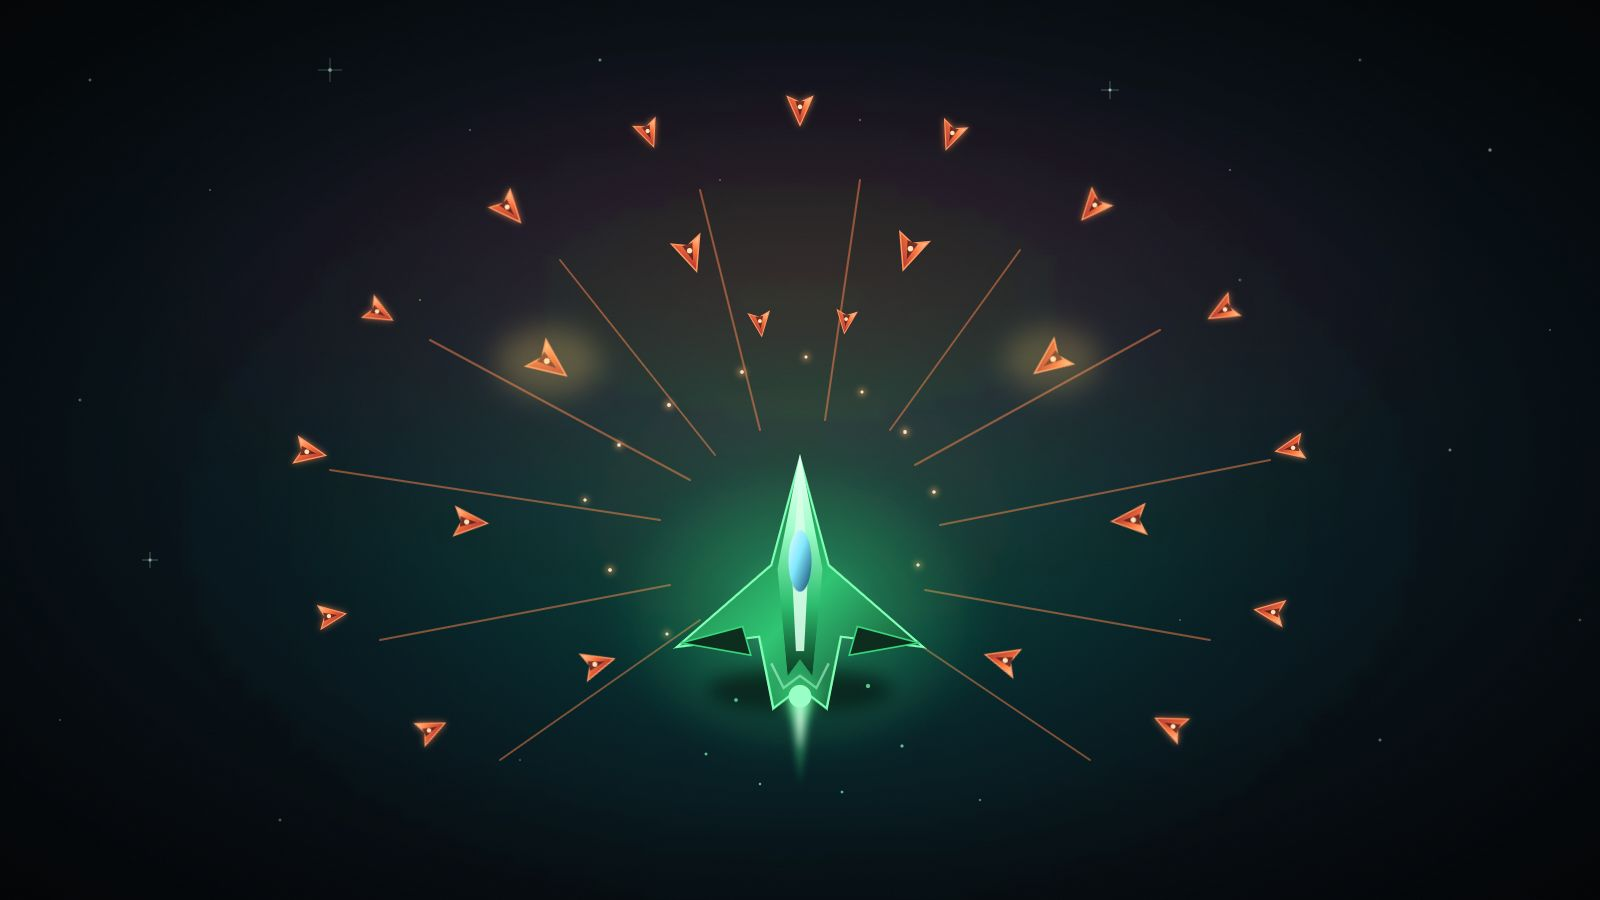
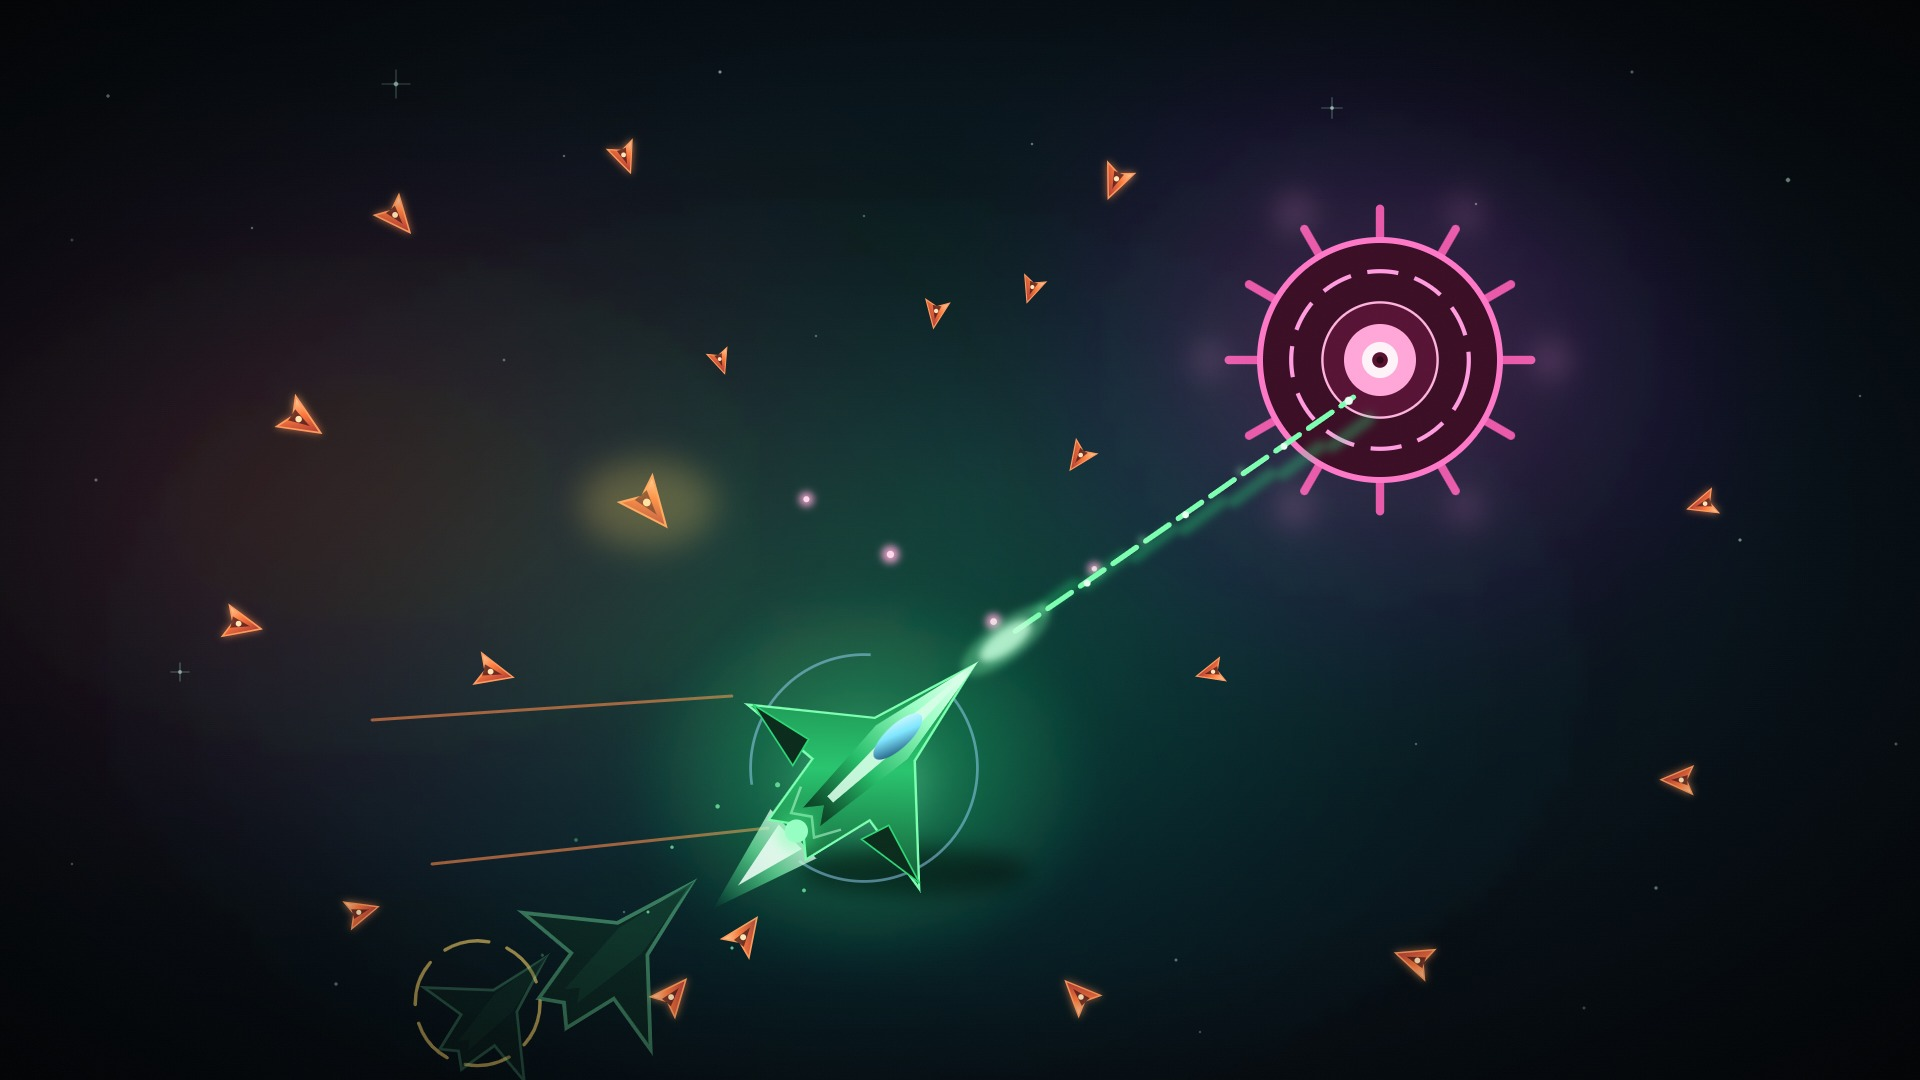
Release 1.2 assets: new hero art, phone wallpaper, 7 final screenshots (gameplay, overdrive, resonate, boss dossiers), rewritten README with story section, boss dossier strip, wallpaper downloads

diff --git a/README.md b/README.md
@@ -1,36 +1,91 @@
 <p align="center">
-  <img src="assets/art/hero.jpg" alt="A lone green starfighter facing a neon swarm" width="100%">
+  <a href="https://swarm-crews.vercel.app">
+    <img src="assets/art/hero.jpg" alt="Swarm Crews key art: the last starfighter firing a forward stream into the Hive boss" width="100%">
+  </a>
 </p>
 
 <h1 align="center">SWARM CREWS</h1>
 
-<p align="center"><b>The swarm ate the colonies. You fly the last ship.</b></p>
-
 <p align="center">
-  <a href="https://swarm-crews.vercel.app"><img alt="Play Swarm Crews in your browser" src="https://img.shields.io/badge/PLAY_NOW-swarm--crews.vercel.app-4dff9b?style=for-the-badge&labelColor=05060a"></a>
-  <a href="https://github.com/tarek-dev-coder/swarm-crews/releases/latest"><img alt="Download the Android APK" src="https://img.shields.io/badge/ANDROID_APK-DOWNLOAD-4dff9b?style=for-the-badge&labelColor=05060a&logo=android&logoColor=05060a"></a>
+  <b>A one-life neon bullet-hell survival shooter.</b><br>
+  <sub>Browser and Android. Your dodge is your weapon.</sub>
 </p>
 
-<p align="center"><sub>FREE · NO ACCOUNT · NO ADS · PLAYS OFFLINE</sub></p>
-
-A neon bullet-hell survival shooter built around one idea: **your dodge is your
-weapon**. Dash through the storm, leave an echo in your wake, then detonate it
-to tear a hole in the swarm. Chain kills, fill the surge meter, and spend it on
-overdrive before the next wall closes in.
+<p align="center">
+  <a href="https://swarm-crews.vercel.app">
+    <img alt="Play Swarm Crews in your browser" src="https://img.shields.io/badge/PLAY_NOW-swarm--crews.vercel.app-4dff9b?style=for-the-badge&labelColor=05060a&logo=vercel&logoColor=4dff9b">
+  </a>
+  <a href="https://github.com/tarek-dev-coder/swarm-crews/releases/latest">
+    <img alt="Download the Android APK" src="https://img.shields.io/badge/ANDROID_APK-DOWNLOAD-4dff9b?style=for-the-badge&labelColor=05060a&logo=android&logoColor=4dff9b">
+  </a>
+</p>
 
 <p align="center">
-  <img src="assets/screenshots/gameplay.jpg" alt="The last ship duelling the Hive boss inside a ring of bullets" width="100%">
+  <a href="https://github.com/tarek-dev-coder/swarm-crews">
+    <img alt="Game repository" src="https://img.shields.io/badge/GAME_REPO-swarm--crews-7fe6ff?style=for-the-badge&labelColor=05060a&logo=github&logoColor=7fe6ff">
+  </a>
+  <a href="https://github.com/tarek-dev-coder">
+    <img alt="Tarek Alliani on GitHub" src="https://img.shields.io/badge/GITHUB-tarek--dev--coder-7fe6ff?style=for-the-badge&labelColor=05060a&logo=github&logoColor=7fe6ff">
+  </a>
+</p>
+
+<p align="center"><sub>Free to play. No account, no ads, works offline.</sub></p>
+
+<p align="center">
+  <a href="#the-loop">The loop</a> |
+  <a href="#the-story">The story</a> |
+  <a href="#screenshots">Screenshots</a> |
+  <a href="#bosses">Bosses</a> |
+  <a href="#controls">Controls</a> |
+  <a href="#play-it-anywhere">Play it anywhere</a> |
+  <a href="#wallpaper">Wallpaper</a>
+</p>
+
+A neon bullet-hell survival shooter built around one idea: **your dodge is your
+weapon**. Dash through bullets, leave an echo behind, then detonate it to clear
+space. Kills fill the surge meter, and a full meter pays for overdrive. A boss
+arrives every third wave.
+
+<p align="center">
+  <img src="assets/screenshots/gameplay.jpg" alt="The last ship duelling the Hive boss through a spore ring" width="100%">
+  <br>
+  <sub><i>Wave 9 against the Hive: spore crown closing in, echo armed, dashing through the aimed spread.</i></sub>
 </p>
 
 ## The loop
 
-- **Dash** — a short burst of invulnerability. Go *through* the bullets.
-- **Echo** — every dash leaves one behind.
-- **Detonate** — blow every echo at once to clear space and shred the wave.
-- **Surge** — chain kills to fill the meter, then unleash overdrive.
-- **Survive** — a boss arrives every third wave. The swarm learns. You adapt.
+| | |
+| :--: | --- |
+| **DASH** | A short burst of invulnerability. Go *through* the bullets, not around them. |
+| **ECHO** | Every dash leaves a ghost of your ship behind. |
+| **DETONATE** | Blow every echo at once to clear space and damage the wave. |
+| **SURGE** | Chain kills to fill the meter, then trigger overdrive. |
+| **SURVIVE** | A boss arrives every third wave and returns with more health. |
 
-Short runs. One life. Your best score is the only thing you keep.
+Runs are short. You have one life. Best score is saved locally.
+
+## The story
+
+The Bloom ate the colonies. You fly the last ship. Every run opens with a
+chaptered prologue rendered live on a cutscene canvas - ship dives, tracer fire,
+dying drone swarms - while the transmission types itself over it. It plays once,
+then lives behind **STORY** on the title screen; SKIP works at any point.
+
+## Screenshots
+
+<p align="center">
+  <a href="https://swarm-crews.vercel.app"><img src="assets/screenshots/title.jpg" alt="Swarm Crews title screen with best score, wave and run stats" width="49%"></a>
+  <img src="assets/screenshots/onboarding.jpg" alt="The in-game coach teaching movement and dash controls" width="49%">
+</p>
+
+<p align="center"><sub><b>Left:</b> title screen. <b>Right:</b> the opening coach.</sub></p>
+
+<p align="center">
+  <img src="assets/screenshots/overdrive.jpg" alt="Full surge meter detonating into an OVERDRIVE shockwave" width="49%">
+  <img src="assets/screenshots/resonate.jpg" alt="Echo detonation waves rippling out from the last ship" width="49%">
+</p>
+
+<p align="center"><sub><b>Left:</b> OVERDRIVE - the shockwave that wipes the screen at full surge. <b>Right:</b> an echo detonation.</sub></p>
 
 ## Bosses
 
@@ -40,31 +95,52 @@ Short runs. One life. Your best score is the only thing you keep.
 | **WARDEN** | Cyan | Spiral lock and a telegraphed line shot |
 | **HIVE** | Magenta | Wide spore rings, aimed spread and escorts |
 
-They return with more health each time. Break the core, take the wave.
+Every boss fight opens with a dossier - the colony record of what the
+Bloom turned each of them into:
+
+<p align="center">
+  <img src="assets/screenshots/boss-monolith.jpg" alt="MONOLITH dossier: the wall that wouldn't fall" width="32%">
+  <img src="assets/screenshots/boss-warden.jpg" alt="WARDEN dossier: the last order" width="32%">
+  <img src="assets/screenshots/boss-hive.jpg" alt="HIVE dossier: the first crew" width="32%">
+</p>
+
+Bosses return with more health each time. Break the core to end the wave.
 
 ## Controls
 
-**Desktop** — `WASD` move · mouse aim · hold to fire · `Shift` / `Space` dash ·
-`Q` detonate · `E` overdrive · `P` pause. Gamepads work too.
+**Desktop:** `WASD` move - mouse aim - hold to fire - `Shift` / `Space` / right
+click dash - `Q` detonate - `E` overdrive - `P` pause. Gamepads work too.
 
-**Phone** — two virtual sticks plus **DASH**, **ECHO** and **SURGE**. No keyboard
-required. Left-hand layout, three stick sizes, auto-aim and a hold-to-fire option
-live in **CONTROLS**.
+**Phone:** two virtual sticks plus **DASH**, **ECHO** and **SURGE**. No keyboard
+required. Left-hand layout and three stick sizes live in **CONTROLS**.
 
 ## Play it anywhere
 
-- **Browser:** [swarm-crews.vercel.app](https://swarm-crews.vercel.app) — instant, no install.
-- **Android:** grab the signed APK from [Releases](https://github.com/tarek-dev-coder/swarm-crews/releases/latest).
-- **Installable:** add it to your home screen and it runs full-screen, offline.
+| Browser | Android | Installable |
+| :---: | :---: | :---: |
+| [**swarm-crews.vercel.app**](https://swarm-crews.vercel.app)<br><sub>Instant. No install.</sub> | [**Signed APK**](https://github.com/tarek-dev-coder/swarm-crews/releases/latest)<br><sub>Landscape, immersive, offline.</sub> | [**Add to home screen**](https://swarm-crews.vercel.app)<br><sub>Full-screen PWA. Works offline.</sub> |
+
+## Wallpaper
+
+Wallpapers for desktop and phone.
 
 <p align="center">
-  <img src="assets/screenshots/title.jpg" alt="Swarm Crews title screen" width="100%">
+  <a href="assets/art/wallpaper-phone.jpg"><img src="assets/art/wallpaper-phone.jpg" alt="Swarm Crews phone wallpaper" width="30%"></a>
 </p>
 
-## Built by hand
+<p align="center"><sub>
+<b>Phone</b> 1080 x 1920 - <a href="assets/art/wallpaper-phone.jpg">download</a><br>
+<b>Desktop</b> 1920 x 1080 - <a href="assets/art/hero.jpg">download</a>
+</sub></p>
 
-Designed and built by **Tarek Alliani**. One canvas, vanilla JavaScript, no game
-engine, no framework, no tracking. The type is Chakra Petch by Cadson Demak,
-used under the SIL Open Font License.
+## Credits
 
-<p align="center"><i>No extraction. Just the next wave.</i></p>
+Designed and built by **[Tarek Alliani](https://github.com/tarek-dev-coder)**. One
+canvas, vanilla JavaScript, no game engine, no framework, no tracking. The type is
+Chakra Petch by Cadson Demak, used under the SIL Open Font License.
+
+<p align="center">
+  <a href="https://github.com/tarek-dev-coder/swarm-crews"><img alt="Game repository" src="https://img.shields.io/badge/GAME_REPO-VIEW_SOURCE-4dff9b?style=flat-square&labelColor=05060a&logo=github&logoColor=4dff9b"></a>
+  <a href="https://github.com/tarek-dev-coder"><img alt="Tarek Alliani on GitHub" src="https://img.shields.io/badge/GITHUB-tarek--dev--coder-7fe6ff?style=flat-square&labelColor=05060a&logo=github&logoColor=7fe6ff"></a>
+  <a href="https://swarm-crews.vercel.app"><img alt="Play Swarm Crews" src="https://img.shields.io/badge/PLAY-swarm--crews.vercel.app-4dff9b?style=flat-square&labelColor=05060a"></a>
+</p>
